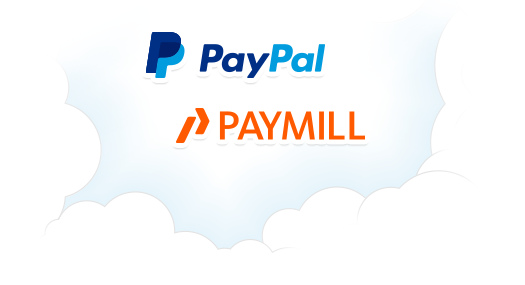
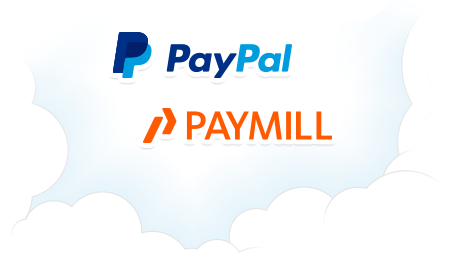
hh

diff --git a/app/assets/stylesheets/frontend/layout.css.less b/app/assets/stylesheets/frontend/layout.css.less
@@ -99,7 +99,7 @@ a {
   }
   .mock-checkout {
    position: absolute;
-   top: 103px;
+   top: 96px;
    width: 280px;
    margin: 0 auto;
    left: 0;
@@ -107,7 +107,7 @@ a {
  }
  .section-illustration {
   .make-md-column-offset(1);
-  .make-md-column(5);
+  .make-md-column(4);
   //  text-align: center;
 }
 .section-text {
@@ -120,14 +120,17 @@ a {
   background: image-url("pay_section_separator.png") no-repeat center bottom;
   .section;
   .section-illustration {
+    .make-md-column-offset(1);
     .make-md-column(5);
     text-align: center;
-  margin-left: 45px;
-  }
-  .section-text {
-    .make-md-column-offset(2);
-    .make-md-column(4);
-  }
+ // margin-left: 45px;
+}
+.section-text {
+  .make-md-column-offset(1);
+  .make-md-column(5);
+  padding-left: 52px;
+
+}
 }
 
 .features-section {

diff --git a/app/assets/stylesheets/frontend/header.css.less b/app/assets/stylesheets/frontend/header.css.less
@@ -30,20 +30,30 @@
     &:hover {
       background-color: #4b9fca
     }
-  }
-  .navbar-text-btn {
-    .navbar-btn;
+    &:active {
+     background-color: #53aede;
+     box-shadow: 0px 1px 3px 0px rgba(0, 0, 0, 0.18);
+   }
+ }
+ .navbar-text-btn {
+  .navbar-btn;
+  background-color: white;
+  box-shadow: none;
+  padding: 14px;
+  color: #555;
+  margin-right: 5px;
+  &:hover {
     background-color: white;
-    box-shadow: none;
-    padding: 14px;
     color: #555;
-    margin-right: 5px;
-    &:hover {
-      background-color: white;
-      color: #555;
 
-    }
   }
+    &:active {
+    background-color: white;
+    color: #555;
+    box-shadow: none;
+
+  }
+}
 }
 
 @animation_time: 230s;
